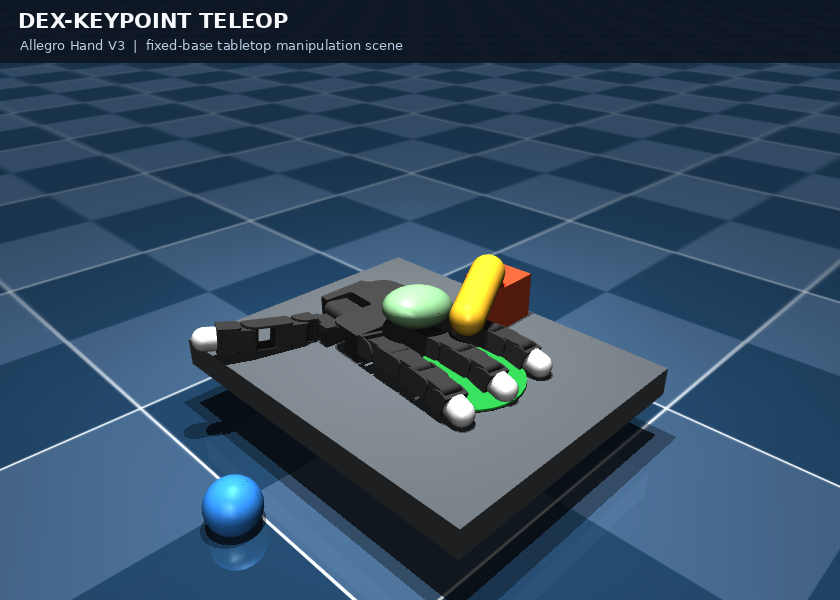
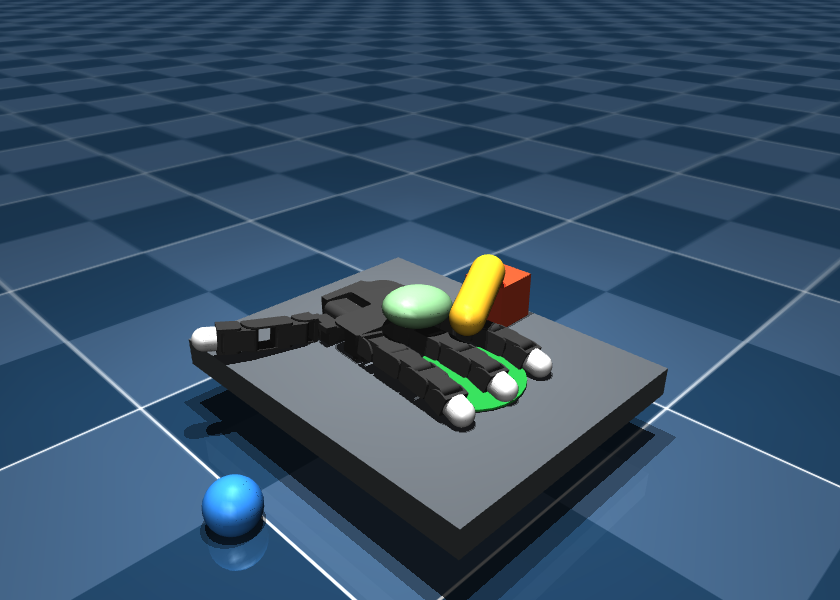
Add live teleoperation GIF to README
Include the real webcam-to-MuJoCo demo and remove title overlays from generated visuals.

Changed region(s): [[0.0, 0.0, 1.0, 0.12]]

diff --git a/README.md b/README.md
@@ -7,10 +7,13 @@ simulation-only; it does not control physical robot hardware.
 
 ![MuJoCo scene with a fixed Allegro Hand V3 and tabletop objects](docs/images/allegro-task-scene.png)
 
-![Illustrative MuJoCo simulation of the Allegro fingers opening and curling](docs/images/allegro-teleop-preview.gif)
+**Live webcam teleoperation**
 
-*The GIF is a rendered simulation preview, not a recording of live webcam
-teleoperation.*
+![Live webcam hand tracking driving the Allegro MuJoCo simulation](docs/images/dex-real-teleop.gif)
+
+**MuJoCo finger-motion simulation preview**
+
+![Allegro fingers opening and curling in the MuJoCo task scene](docs/images/allegro-teleop-preview.gif)
 
 ## Requirements
 
